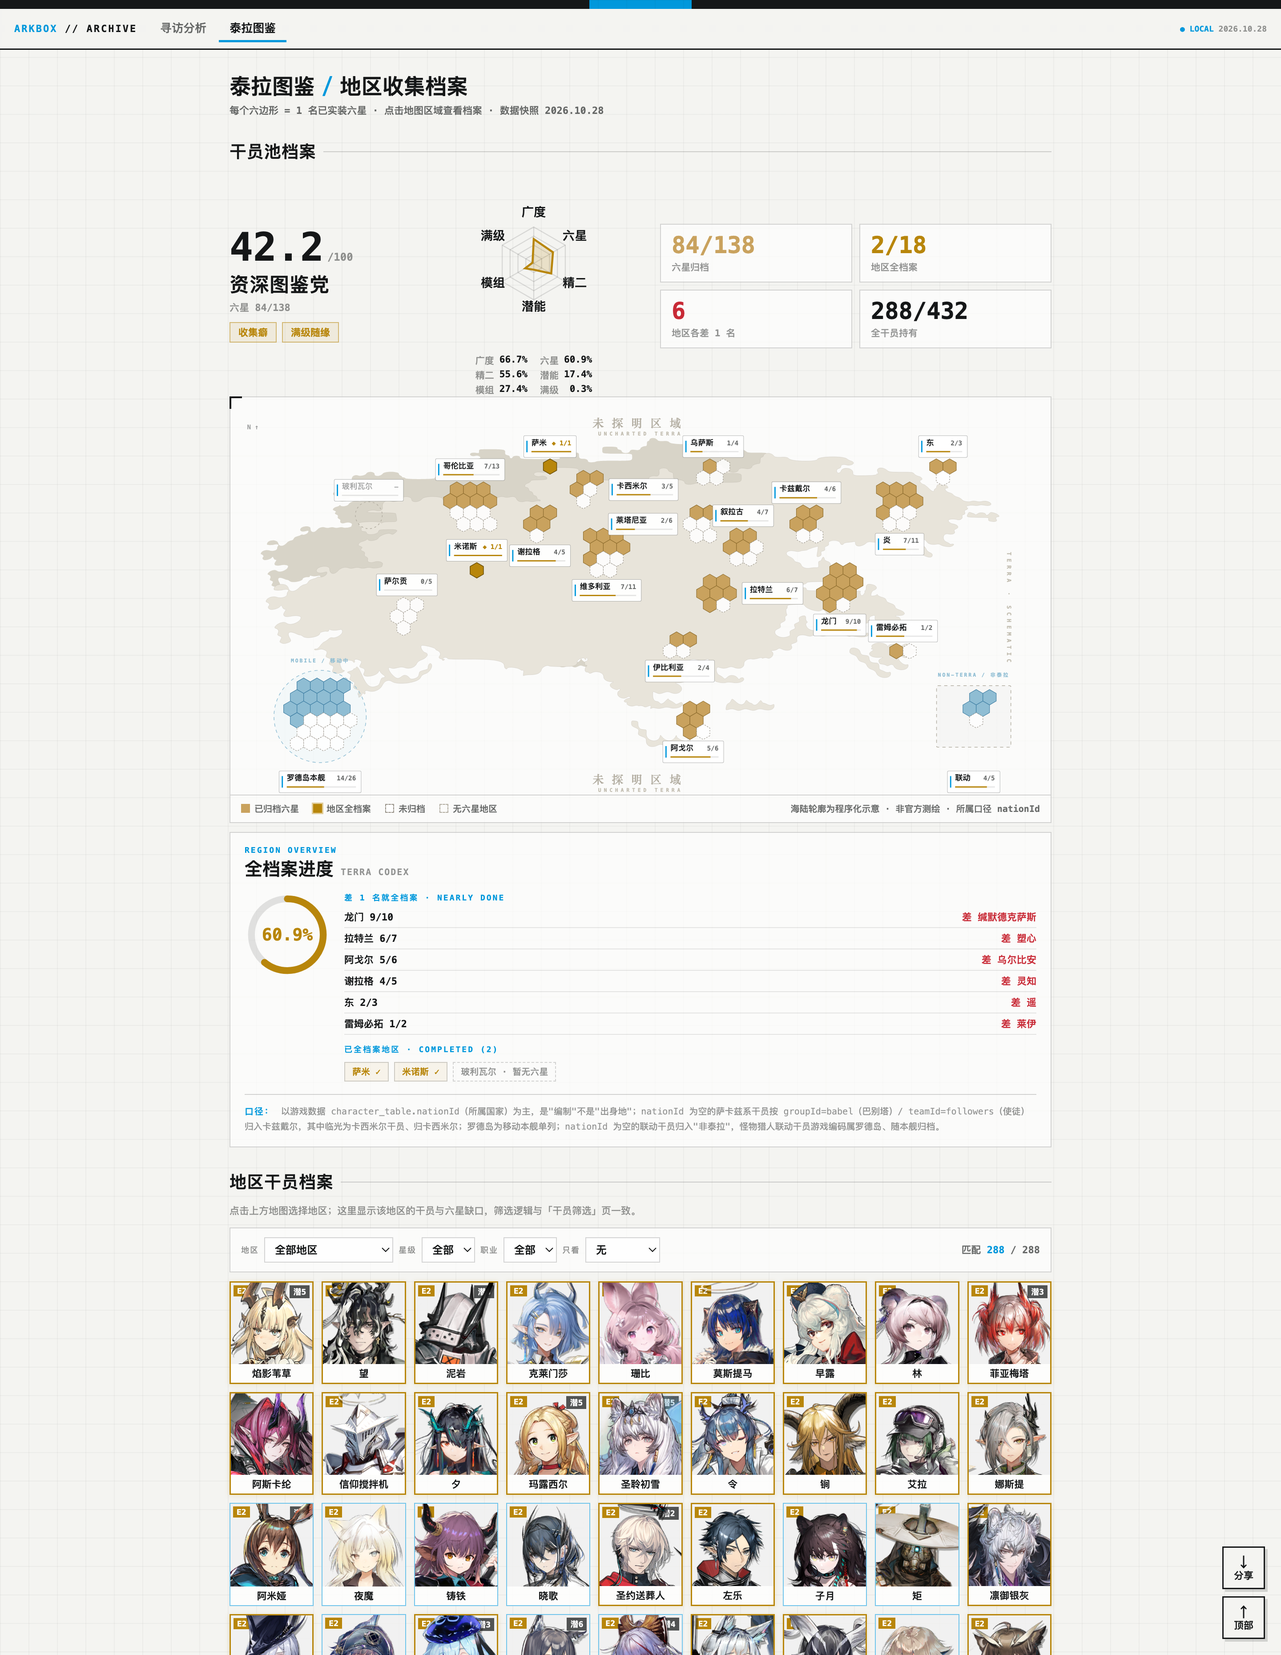
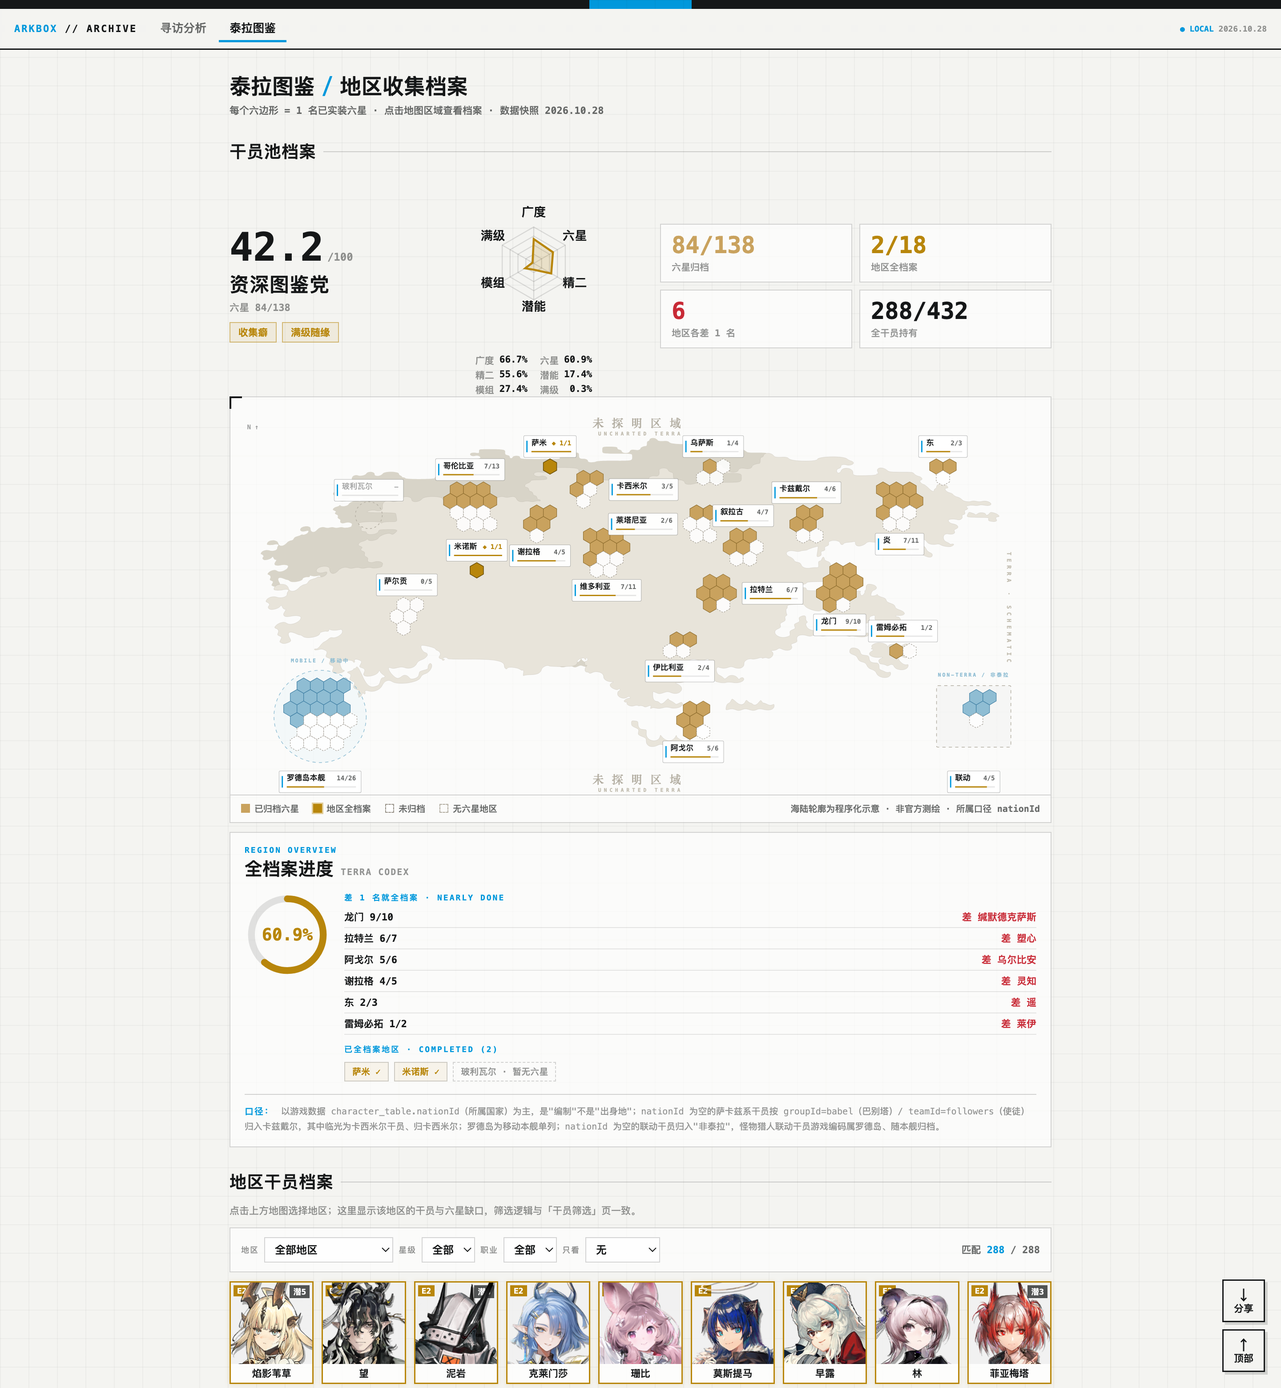
README 精简 1/3 并统一演示图版式（126 行，原 ~205 行）
- demo 图 4 → 3：撤掉与海报信息重复的分享弹层截图；寻访分析与泰拉图鉴
  生成同高视口（2880×3120），README 内并排放不再参差
- 三支柱各压一行；跨平台/零依赖声明并入依赖表脚注
- 常用命令 5 → 3（站点发布细节移至 PUBLISHING.md）；交付物 5 → 4
- 常见问题 8 → 5（凭证/平均抽数等重复信息并入上文或合并条目）
- 目录 section 删除（GitHub 自带文件浏览）；Agent 使用降为短段
- 数据与隐私 5 → 3；测试与演示图复刻合并为一节
- 文案总原则不变：口径诚实与已知边界一条不删，只压字数

diff --git a/tools/make_demo_images.py b/tools/make_demo_images.py
@@ -39,13 +39,11 @@ NICK = "演示博士"
 TENURE = "2024-07-14"  # 页头「入职 · N 天」演示日期
 DOCS = ROOT / "docs"
 
-# 每张截图的视口（CSS 像素；物理像素 ×2）。高度按页签内容取：
-# 寻访分析长报告取首屏信息密度最高的上半段；泰拉图鉴要装下地图 + 地区面板；
-# 分享弹层是固定遮罩，取遮罩整屏。
+# 每张截图的视口（CSS 像素；物理像素 ×2）。寻访分析与泰拉图鉴保持同高，
+# README 里两张并排放才不会参差；分享弹层预览的就是海报本身，不再单独出图。
 SHOTS = {
     "demo-archive.png": ("#gacha", 1440, 1560),
-    "demo-terra.png": ("#terra", 1440, 1860),
-    "demo-share.png": ("#share-modal", 1440, 1100),
+    "demo-terra.png": ("#terra", 1440, 1560),
 }
 
 
@@ -148,13 +146,7 @@ def main():
             poster_b64=posters.get("gacha"), poster_terra_b64=posters.get("terra"))
 
         for name, (frag, w, hgt) in SHOTS.items():
-            js = ""
-            if frag == "#share-modal":  # 特殊标记：自动点分享按钮，截弹层
-                js = ("window.addEventListener('load',function(){"
-                      "setTimeout(function(){var b=document.getElementById('fab-share');"
-                      "if(b)b.click();},500);});")
-                frag = ""
-            shot(browser, html, str(DOCS / name), w, hgt, frag=frag, extra_js=js)
+            shot(browser, html, str(DOCS / name), w, hgt, frag=frag)
             print(f"✓ docs/{name}", file=sys.stderr)
     finally:
         shutil.rmtree(work, ignore_errors=True)

diff --git a/README.md b/README.md
@@ -8,18 +8,14 @@
 > 把你的明日方舟抽卡史，装订成一份能晒的档案。本地优先、口径诚实、舟味设计。
 
 <p align="center">
-  <img src="docs/demo-poster.png" alt="抽卡海报" width="42%">
+  <img src="docs/demo-poster.png" alt="抽卡海报" width="38%">
 </p>
 <p align="center">
   <img src="docs/demo-archive.png" alt="档案页 · 寻访分析" width="49%">
   <img src="docs/demo-terra.png" alt="档案页 · 泰拉图鉴" width="49%">
 </p>
-<p align="center">
-  <img src="docs/demo-share.png" alt="档案页 · 分享图预览" width="60%">
-</p>
 
-非官方玩家工具，与鹰角网络无隶属或授权关系；**仅支持国服官服账号**——寻访记录仅官网渠道（官服）可查，
-B 服 / 国际服角色无法使用。代码 MIT，游戏数据与素材版权归原权利方。
+非官方玩家工具，与鹰角网络无隶属或授权关系；**仅支持国服官服账号**（寻访记录仅官服渠道可查，B 服 / 国际服不可用）。代码 MIT，游戏数据与素材版权归原权利方。
 
 ## 30 秒看效果（无需登录）
 
@@ -32,78 +28,45 @@ python3 skill/arkbox/scripts/ark_gacha.py analyze \
   --poster --html
 ```
 
-这条命令用合成演示数据跑通完整分析，产出**抽卡海报 PNG + 单页档案报告**。注意：
-未登录时没有干员持有数据，档案页是单页形态；扫码登录后重跑同一命令，档案页会升级为
-「寻访分析 + 泰拉图鉴」双页签并支持导出分享图——即上方三张展示图的完整效果。
-跑通了再往下看安装与登录；只想了解依赖和隐私，继续读即可。
+用合成演示数据跑通完整分析，产出**抽卡海报 PNG + 单页档案报告**。未登录时没有干员持有数据，档案页为单页形态；扫码登录后重跑同一命令，即升级为「寻访分析 + 泰拉图鉴」双页签并可导出分享图——上方展示图的完整效果。
 
 ## 三个支柱
 
-- **晒得出**：抽卡海报（2160×2880 PNG）与档案页内一键导出的分享图，欧非皆成作品；
-  称号由数据规则生成，海报上每一项指标都有口径注脚。
-- **看得懂**：按池独立统计（不跨池合并），池内均值 / 整体效率 / 当前垫抽 / 最长间隔四口径分开；
-  「理论位置」对标同段数理论样本，**不是全服排名**；数据缺口明示，不虚构生涯全量。
-- **留得住**：记录归档在本地 `~/.arkbox/archive/`，凭证只存本地（权限 600）；
-  分享产物（海报/HTML/站点/图鉴）一律不含 UID，`--hide-nick` 可再隐去昵称。
+- **晒得出**：2160×2880 抽卡海报与档案页内一键分享图，称号由数据规则生成，每项指标都有口径注脚。
+- **看得懂**：按池独立统计、池内均值 / 整体效率 / 当前垫抽 / 最长间隔四口径分开；「理论位置」对标同段数理论样本，**不是全服排名**；数据缺口明示，不虚构生涯全量。
+- **留得住**：记录本地归档、凭证权限 600；分享产物（海报/HTML/站点/图鉴）一律不含 UID，`--hide-nick` 可再隐昵称。
 
-## 开始之前：你需要什么
+## 开始之前
 
 | 依赖 | 必需程度 | 说明 |
 |---|---|---|
-| Python 3.9+ | 必需 | macOS 自带即可；Windows 到 [python.org](https://www.python.org/downloads/) 安装（勾选 Add python.org to PATH） |
-| 森空岛 App | 必需（登录功能） | 手机安装并已绑定明日方舟角色，登录时扫码授权；只用离线记录分析（`--records`）则不需要 |
+| Python 3.9+ | 必需 | macOS 自带；Windows 到 [python.org](https://www.python.org/downloads/) 安装（勾选 Add python.org to PATH） |
+| 森空岛 App | 登录时需要 | 手机安装并绑定明日方舟角色，扫码授权；只玩离线记录（`--records`）则不需要 |
 | Chrome / Edge / Chromium | 可选 | 生成海报 PNG 用；没有时交付 HTML，可自行截图 |
 | `pip3 install qrcode` | 可选 | 登录二维码本地生成；不装则降级为本地 HTML 页（经公开 QR 服务渲染，只发送一次性 scanId） |
 
-**Windows 用户注意**：命令行里的 `python3` 请换成 `python` 或 `py -3`，其余完全一致。
-
-**纯标准库零依赖**：除上表可选项外不安装任何第三方包，全部网络行为都写在源码里
-（见 SKILL.md「网络出口清单」），凭证只存本地 `~/.arkbox/`（权限 600），可自行审计。
-
-## 跨平台
-
-- macOS / Windows / Linux 都可运行，Python 3.9+，零第三方运行依赖。
-- 生成 PNG 需要本机 Chrome / Edge / Chromium；找不到浏览器时仍会生成 HTML，不会阻断主流程。
-- 登录二维码：有 `qrcode` 时生成本地 PNG（`pip3 install qrcode`，推荐）；没有时生成本地 HTML（通过公开 QR 服务渲染，只发送一次性 scanId，不含账号凭证），不会因缺库崩溃。
-- 图片、字体、CDN 的可达性会影响视觉效果；数据与 HTML 结构在各平台一致。
+- **Windows 用户注意**：命令里的 `python3` 换成 `python` 或 `py -3`，其余一致。
+- **纯标准库零依赖**：除上表可选项外不装任何第三方包，全部网络行为写在源码里（见 SKILL.md「网络出口清单」）；macOS / Windows / Linux 均可运行，数据与 HTML 结构各平台一致，图片字体的可达性只影响视觉效果。
 
 ## 安装
 
-方式一：git clone（以后更新方便）
-
 ```bash
-git clone https://github.com/chenzefeng0731/arkbox.git arkbox
-cd arkbox
+git clone https://github.com/chenzefeng0731/arkbox.git arkbox && cd arkbox
 python3 install.py
 ```
 
-方式二：不用 git——GitHub 页面绿色 Code 按钮 → Download ZIP，解压后进目录执行同一条命令。
+方式二（不用 git）：GitHub 页面绿色 Code 按钮 → Download ZIP，解压后执行同一条命令。
 
-安装器自动探测本机的 Agent skills 目录并把 skill 装进去；探测不到时装到通用位置
-`~/.arkbox/skill/arkbox`，不影响使用——让 Agent 读取其中的 `SKILL.md` 调用 `scripts/`，
-或直接运行 CLI（真正跨 Agent 的公约数是 Python CLI）。特殊需要可用 `--target <目录>`
-指定位置，见 `python3 install.py --help`。
+安装器自动探测本机 Agent skills 目录并装入 skill；探测不到时装到通用位置 `~/.arkbox/skill/arkbox`——让 Agent 读取其中 `SKILL.md` 调用 `scripts/`，或直接运行 CLI（真正跨 Agent 的公约数是 Python CLI）。特殊需要 `--target <目录>`，见 `python3 install.py --help`。
 
 ## 首次登录
 
 ```bash
-python3 skill/arkbox/scripts/skland_core.py login
+python3 skill/arkbox/scripts/skland_core.py login   # 森空岛 App 扫码；凭证存 ~/.arkbox/credentials.json（权限 600）
+python3 skill/arkbox/scripts/ark_doctor.py          # 环境自检（Python / 浏览器 / qrcode / 凭证 / 归档）
 ```
 
-用森空岛 App 扫码，或在终端选择手机号 + 验证码。凭证保存在 `~/.arkbox/credentials.json`（权限 600）。
-
-环境有问题时先跑：
-
-```bash
-python3 skill/arkbox/scripts/ark_doctor.py
-```
-
-大多数“凭证失效”不需要重新扫码：ArkBox 会用已保存的 `hg_token` 自动续期；只有 `hg_token`
-也失效时才需要重新登录。
-
-**登录能管多久？** 官方没有公开有效期承诺。社区工具的普遍经验：不修改密码、不在森空岛 App
-里登出或清理登录设备，一次登录可以一直用；做了这些操作会立即失效。失效后 `ark_doctor.py`
-会明确提示，重新运行上面的 login 即可，`~/.arkbox/archive/` 里的历史归档不受影响。
+大多数"凭证失效"不用重新扫码：ArkBox 会用已保存的 `hg_token` 自动续期。官方未承诺有效期；社区经验是不改密码、不在森空岛 App 登出或清理设备即可长期使用，失效后 doctor 会明确提示重登，`~/.arkbox/archive/` 的历史归档不受影响。
 
 ## 常用命令
 
@@ -111,105 +74,53 @@ python3 skill/arkbox/scripts/ark_doctor.py
 # 抽卡海报 + 档案页 HTML（最精简的通用交付）
 python3 skill/arkbox/scripts/ark_gacha.py analyze --poster --html
 
-# 生成可发布的公开站点（Qoder Sites）
-python3 skill/arkbox/scripts/ark_gacha.py analyze \
-  --site --site-dir site --poster --quiet
+# 离线分析自己的记录文件
+python3 skill/arkbox/scripts/ark_gacha.py analyze --records records.json --nick 博士 --poster --html
 
-# 离线分析
-python3 skill/arkbox/scripts/ark_gacha.py analyze \
-  --records records.json --nick 博士 --poster --html
-
-# 干员筛选与图鉴
-python3 skill/arkbox/scripts/ark_box.py stats
+# 我的干员：筛选 + 图鉴页
 python3 skill/arkbox/scripts/ark_box.py gallery --open
 ```
 
-`--poster` 默认只保留海报 PNG，源 HTML 自动删除；需要编辑源文件时加 `--keep-poster-source`。
+`--poster` 默认只保留海报 PNG（源 HTML 自动删除，编辑加 `--keep-poster-source`）；固定站点发布（Qoder Sites）见 [docs/PUBLISHING.md](docs/PUBLISHING.md)。
 
 ## 交付物
 
-- **抽卡海报**：1080×1440 逻辑尺寸，2x 渲染输出 2160×2880 PNG（高分屏与社媒压缩都清晰），发社媒/评论区。
-- **全能档案页**（`analyze --html`）：一个自包含 HTML——「寻访分析」页签（池时间线/池型对照/
-  称号候选/分享文案/审计表）+「泰拉图鉴」页签（138 名六星画成一张六边形大陆图，一个六边形 =
-  一名六星；点击地区看收集档案与“差一枚”清单，下半是地区干员池）；右下角「分享」按钮弹出
-  分享图预览，可下载寻访/泰拉两张海报 PNG。未登录或离线 `--records` 自动降级为单页报告；
-  `--no-box` 可跳过干员数据。
-- **我的干员**：`ark_box.py` 独立命令，按职业/星级/等级/潜能/时装筛选并生成图鉴页。
-- **公开站点**：Qoder 用户可发布为固定站点（昵称固定“博士”、不含 UID、noindex）。
-- 不交付海报源 HTML、手机截图、Markdown、说明文档；这些只用于源文件和验收。
+- **抽卡海报**：1080×1440 逻辑尺寸、2x 渲染 2160×2880 PNG，高分屏与社媒压缩都清晰。
+- **全能档案页**（`analyze --html`）：一个自包含 HTML——「寻访分析」（池时间线/池型对照/称号候选/审计表）+「泰拉图鉴」（全服 138 名六星画成六边形大陆图，点击地区看收集档案与"差一枚"清单）；右下角「分享」弹层导出两张海报 PNG。未登录或离线 `--records` 自动降级为单页报告。
+- **我的干员**：按职业/星级/等级/潜能/时装筛选，生成图鉴式浏览页。
+- 不交付海报源 HTML、手机截图、Markdown——那些只用于源文件和验收。
 
 ## 在 AI Agent 中使用
 
-ArkBox 原生附带一个通用 Skill（`skill/arkbox/SKILL.md`）：安装后直接在 Agent 里说
-「用 arkbox 分析我的明日方舟抽卡记录，生成海报和 HTML」即可。CLI 输出对自动化友好
-（`--json` 机器可读、`--audit` 口径校验表、明确的退出码），任何能执行本地命令的 Agent
-都可以直接驱动同一套核心程序——数字由 ArkBox 算，Agent 只负责解说，不许篡改统计值。
+ArkBox 原生附带通用 Skill（`skill/arkbox/SKILL.md`）：安装后直接在 Agent 里说「用 arkbox 分析我的明日方舟抽卡记录，生成海报和 HTML」。`--json` 机器可读、`--audit` 口径校验表、退出码明确——任何能执行本地命令的 Agent 驱动的都是同一套核心程序，数字由 ArkBox 算，Agent 只负责解说，不许篡改统计值。
 
 ## 数据与隐私
 
-- **分享产物（海报/HTML/站点/图鉴）不展示 UID**：UID 不进入报告模型，只存在于本地凭证与归档目录；`--hide-nick` 可隐藏昵称。
-- 公开站点固定昵称“博士”、不含 UID、`noindex` + `robots.txt` 禁止抓取。
-- 只使用展示需要的玩家字段；不把理智、最后在线、基建、招募状态写进公开产物。
-- 原始记录归档在 `~/.arkbox/archive/`，不会上传。
-- 凭证等同账号钥匙，不要分享 `~/.arkbox/credentials.json`；登出用 `skland_core.py logout`（彻底解除授权请在森空岛 App 授权管理里操作）。
+- **分享产物（海报/HTML/站点/图鉴）不展示 UID**：UID 不进入报告模型，只存在于本地凭证与归档目录；`--hide-nick` 隐藏昵称，公开站点固定"博士"并 `noindex` + `robots.txt` 禁止抓取。
+- 原始记录归档在 `~/.arkbox/archive/` 不会上传；凭证等同账号钥匙，不要分享 `~/.arkbox/credentials.json`，登出用 `skland_core.py logout`（彻底解除授权请在森空岛 App 授权管理里操作）。
 
-## 测试
+## 测试与演示图复刻
 
 ```bash
-# 单元与口径自测（不联网、不读凭证）
-python3 skill/arkbox/scripts/selftest.py
-
-# 端到端冒烟（不登录：fixtures 全链路出海报/报告/站点，断言数字与隐私）
-python3 tests/e2e_check.py
+python3 skill/arkbox/scripts/selftest.py    # 单元与口径自测（不联网、不读凭证）
+python3 tests/e2e_check.py                  # 端到端冒烟：fixtures 全链路 + 数字与隐私断言
+python3 tools/make_demo_images.py           # 复刻上方三张演示图（合成数据；需 Chrome，首次联网下载元数据约 10MB）
 ```
 
-单元自测覆盖抽卡模型、按池独立口径、零金、标题、隐私、站点、入职天数等边界；
-端到端冒烟走真实 CLI。CI 在 macOS/Windows/Linux × Python 3.9/3.12 上每次提交自动跑全部测试。
-
-## 复刻 README 演示图
-
-`docs/` 四张演示图（海报 / 寻访分析 / 泰拉图鉴 / 分享弹层）由仓库自带工具生成，
-数据为合成演示记录 + 确定性合成的演示 box（不对应任何真实账号）：
-
-```bash
-python3 tools/make_demo_images.py
-```
-
-需要本机 Chrome/Edge 与公网（首次运行下载干员元数据约 10MB，之后走本地缓存）。
-
-## 目录
-
-```
-skill/arkbox/          skill 源（SKILL.md + scripts + references）
-fixtures/              demo 记录（复刻真实档案结构，无账号信息，时间轴已平移）
-tests/                 端到端冒烟（e2e_check.py）
-tools/                 仓库维护工具（make_demo_images.py 重制 README 演示图）
-install.py             跨平台安装器
-docs/                  设计、验收、演示产物与发布清单
-LICENSE                MIT（仅代码）
-THIRD_PARTY_NOTICES.md 游戏数据/头像/第三方组件说明
-docs/PUBLISHING.md    上架 GitHub 前的隐私/验证清单
-```
+CI 在 macOS/Windows/Linux × Python 3.9/3.12 上每次提交自动跑全部测试。
 
 ## 常见问题
 
 - **会不会封号 / 盗号？** 只读官方可查接口、低频请求、不修改游戏客户端；凭证只存本地（权限 600）不上传。但这是非官方工具，无法承诺零风险，介意请勿使用。
-- **支持 B 服 / 国际服吗？** 不支持。寻访记录只存在官网用户中心（官服渠道），B 服 / 国际服角色不在其中；森空岛虽能列出 B 服角色，但抽卡分析无从谈起。
-- **为什么我的记录不全 / 只有几个月？** 森空岛只返回官方可查窗口内的记录，不是工具漏了；报告默认写“本档案区间”。
-- **为什么我的平均抽数和别人不一样？** 统计按卡池独立、不跨池累计，四项指标（池内均值 / 整体效率 / 当前垫 / 最长间隔）分开；跨池拉平会失真。
-- **为什么没有全服排名？** 本地工具拿不到全服数据；“理论位置”是与同段抽数理论样本的比较，不是排名。
-- **凭证存在哪？怎么删？** `~/.arkbox/credentials.json`（权限 600）。运行 `skland_core.py logout` 可删除本地凭证；彻底解除授权请在森空岛 App 的授权管理里操作。
+- **为什么我的记录不全 / 只有几个月？** 森空岛只返回官方可查窗口内的记录，不是工具漏了；报告默认写"本档案区间"。
+- **为什么我的平均抽数和别人不一样 / 为什么没有全服排名？** 统计按卡池独立、不跨池累计，池内均值 / 整体效率 / 当前垫抽 / 最长间隔四口径分开，跨池拉平会失真；"理论位置"是与同段数理论样本的比较，本地工具拿不到全服数据，不做排名。
 - **Windows 怎么用？** 命令里 `python3` 换成 `python` 或 `py -3`；生成 PNG 需要本机 Chrome / Edge / Chromium，没有时仍会生成 HTML。
 - **可以商用 / 二次分发吗？** 代码 MIT 可自由使用；游戏名称、头像、数据版权归鹰角网络等原权利方，本项目非官方、非商业。
 
 ## 已知边界
 
-- 森空岛只返回可查窗口内的记录，无法证明账号全历史；报告默认写“本档案区间”。
-- 标准/中坚历史无法证明完整，默认**不跨池累计**；首段可能承接档案外垫抽。
-- 标准/中坚/特殊池的 UP 兑换井规则不统一，不硬算；限定 300、联动 120 只展示档案内进度。
+- 森空岛只返回可查窗口内的记录，无法证明账号全历史；每池首段可能承接档案外垫抽，不做校正也不剔除。
+- 标准/中坚历史无法证明完整，默认**不跨池累计**；标准/中坚/特殊池的 UP 兑换井规则不统一，不硬算（限定 300、联动 120 只展示档案内进度）。
 - 截图 OCR 与需要登录态/签名的官方记录链接不自动导入；公开 JSON 链接可用 `--records URL`。
-- **部分网络环境（如中国大陆直连）访问 GitHub raw 不稳定**：干员元数据下载已内置
-  jsdelivr 镜像回退，页面头像加载失败也会自动换镜像；卡池表镜像（PRTS 站）一般可直连。
-  若拉取失败，工具会降级（池型/UP 显示“待核”），不影响基础统计与报告生成。
-- 接口来自社区对森空岛/官网的逆向分析，官方改版可能导致登录或拉取失效；
-  失效时请带 `ark_doctor.py` 输出到 issue 反馈。
+- **大陆直连访问 GitHub raw 不稳定**：干员元数据下载已内置 jsdelivr 镜像回退，页面头像加载失败自动换镜像；卡池表镜像（PRTS 站）一般可直连。若拉取失败会降级（池型/UP 显示"待核"），不影响基础统计与报告生成。
+- 接口来自社区对森空岛/官网的逆向分析，官方改版可能导致登录或拉取失效；失效时请带 `ark_doctor.py` 输出到 issue 反馈。
